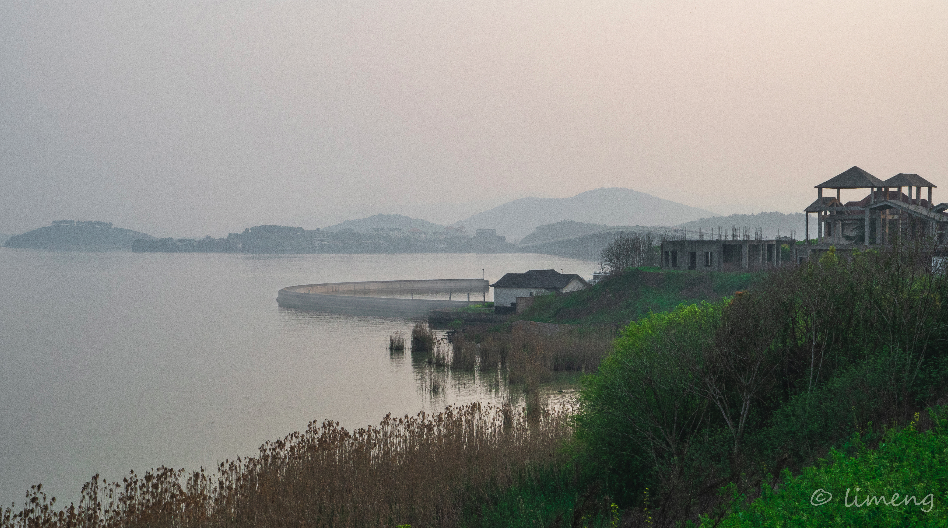
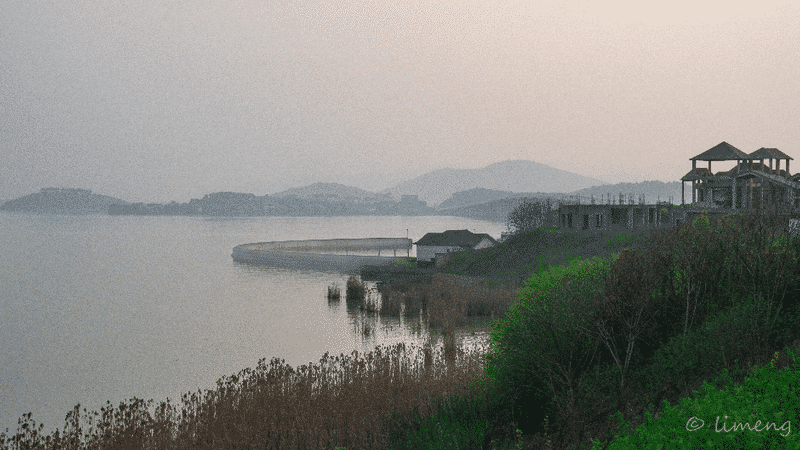
压缩图片

diff --git a/main/html/frame/navigator.html b/main/html/frame/navigator.html
@@ -51,12 +51,12 @@
         $(function () {
             $(".nav_bg a").click(function(){
                 $(this).addClass("nactive").siblings().removeClass("nactive");
-            })
+            });
 
             $(".nav_0").click(function () {
                 top.frames["iframe_main"].location.href=$(this).data("href");
             })
-        })
+        });
         $(function() {
              // url = $.ajax({
              //     type: "get",
